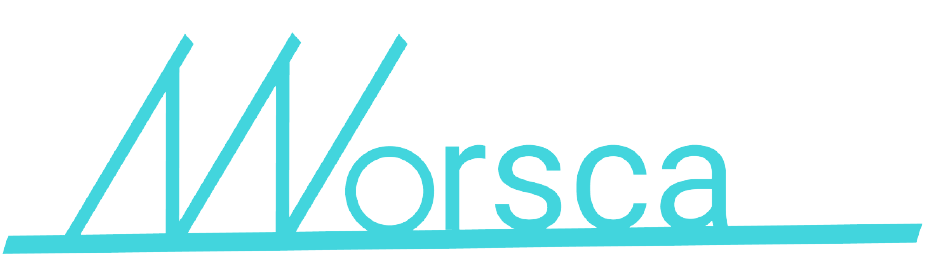
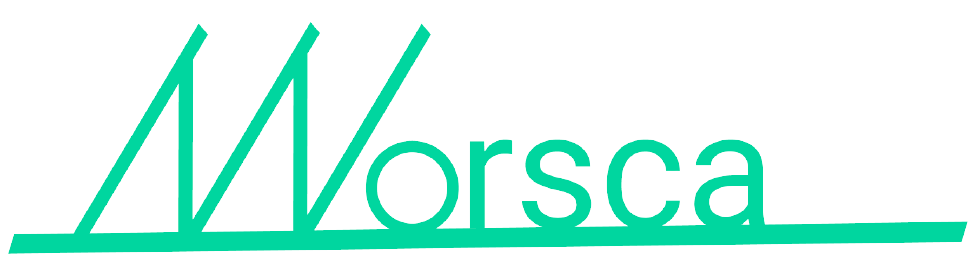
Mainpage UPDATE 로고 색상 변경 및 구글 폰트 추가

Changed region(s): [[0.0, 0.0938, 1.0, 1.0]]

diff --git a/client/src/App.js b/client/src/App.js
@@ -4,7 +4,7 @@ import { createGlobalStyle } from "styled-components";
 import Mainpage from "./components/Mainpage";
 
 const GlobalStyles = createGlobalStyle`
-    * {
+	* {
     margin: 0;
     padding: 0;
     border: none;
@@ -13,14 +13,26 @@ const GlobalStyles = createGlobalStyle`
     text-decoration: none;
   }
 	body {
-		/* background-color: #F5F5F3; */
-		background-color: black;
+		@import url('https://fonts.googleapis.com/earlyaccess/notosanskr.css');
+		font-family: "Noto Sans KR", sans-serif !important;
+		background-color: #F5F5F3;
+		/* background-color: black; */
 		height: 100%;
 		width: 100%;
 		overflow: hidden;
 	}
+	input {
+		background-color: rgba(0, 0, 0, 0);
+		border: 1px solid #38d9a9;
+		color: #38d9a9;
+		&::placeholder {
+			color: #f5f5f3;
+			font-weight: bold;
+			font-size: 18px;
+		}
+	}
 	button {
-		border: none;
+		border: 1px solid #38d9a9;
 		background: none;
 		cursor: pointer;
 	}

diff --git a/client/src/components/Mainpage.js b/client/src/components/Mainpage.js
@@ -30,13 +30,12 @@ const MainTitle = styled.div`
 	.main__title__text {
 		height: 8rem;
 		color: #f5f5f3;
-		-webkit-text-stroke: 2px darkblue;
 	}
 `;
 
 // 검색창 스타일
 const MainSearchbar = styled.form`
-	border: 3px solid #5dd9e1;
+	border: 3px solid #38d9a9;
 	background-color: rgba(255, 255, 255, 0.05);
 	height: 5.4vh;
 	min-width: 250px;
@@ -50,11 +49,11 @@ const MainSearchbar = styled.form`
 		margin-left: 16px;
 		border: none;
 		width: 80%;
-		color: #5dd9e1;
+		color: #38d9a9;
 		font-weight: bold;
 		font-size: 18;
 		&::placeholder {
-			color: #5dd9e1;
+			color: #f5f5f3;
 			font-weight: bold;
 			font-size: 18px;
 		}
@@ -63,7 +62,8 @@ const MainSearchbar = styled.form`
 		border: none;
 		background: none;
 		margin-right: 24px;
-		color: #5dd9e1;
+		color: #38d9a9;
+		font-size: 22px;
 	}
 `;
 
